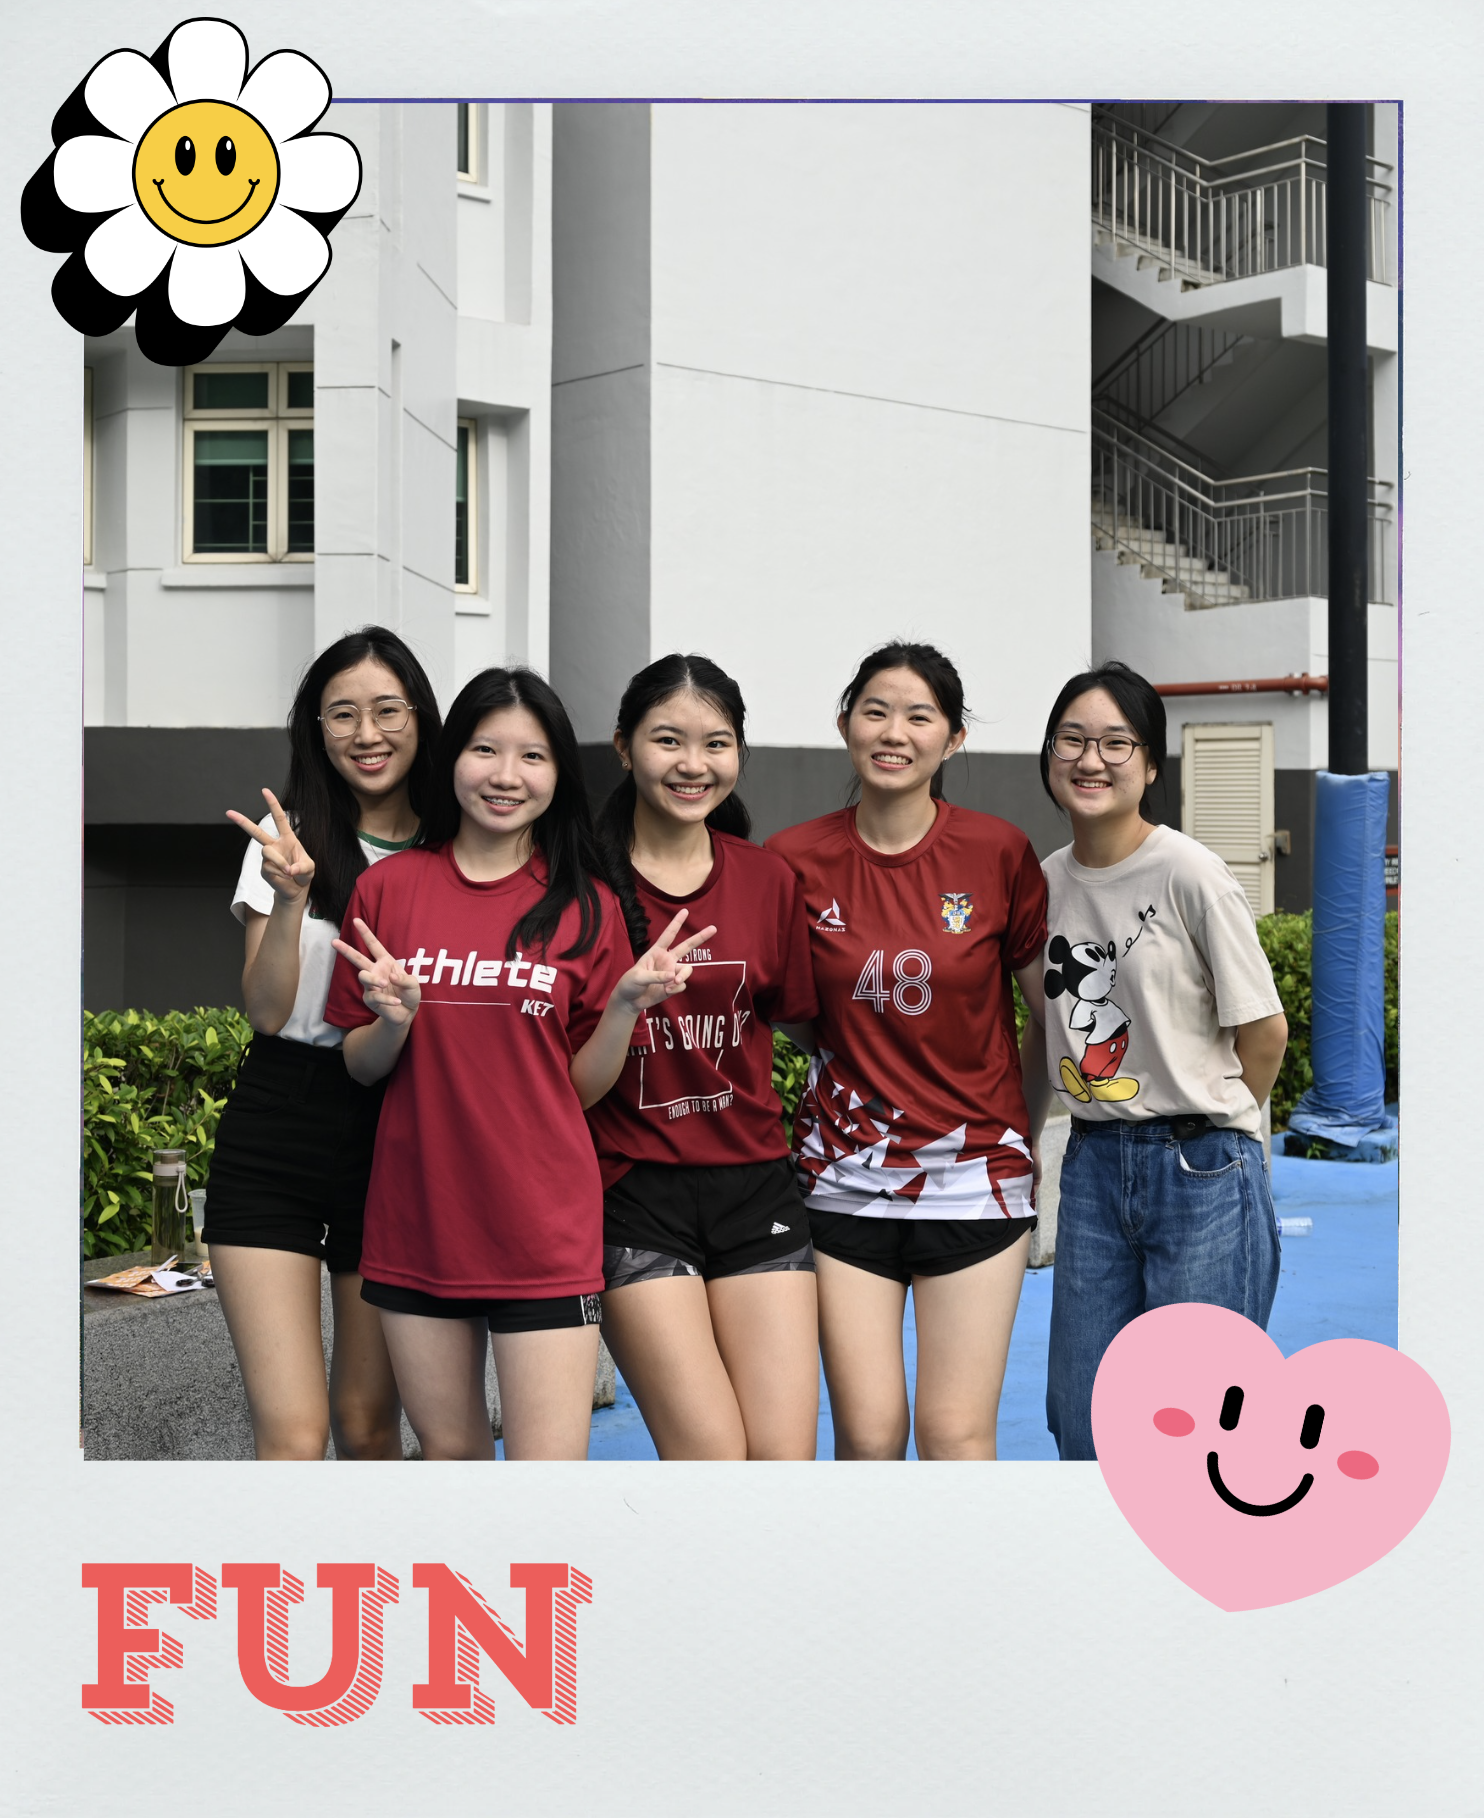
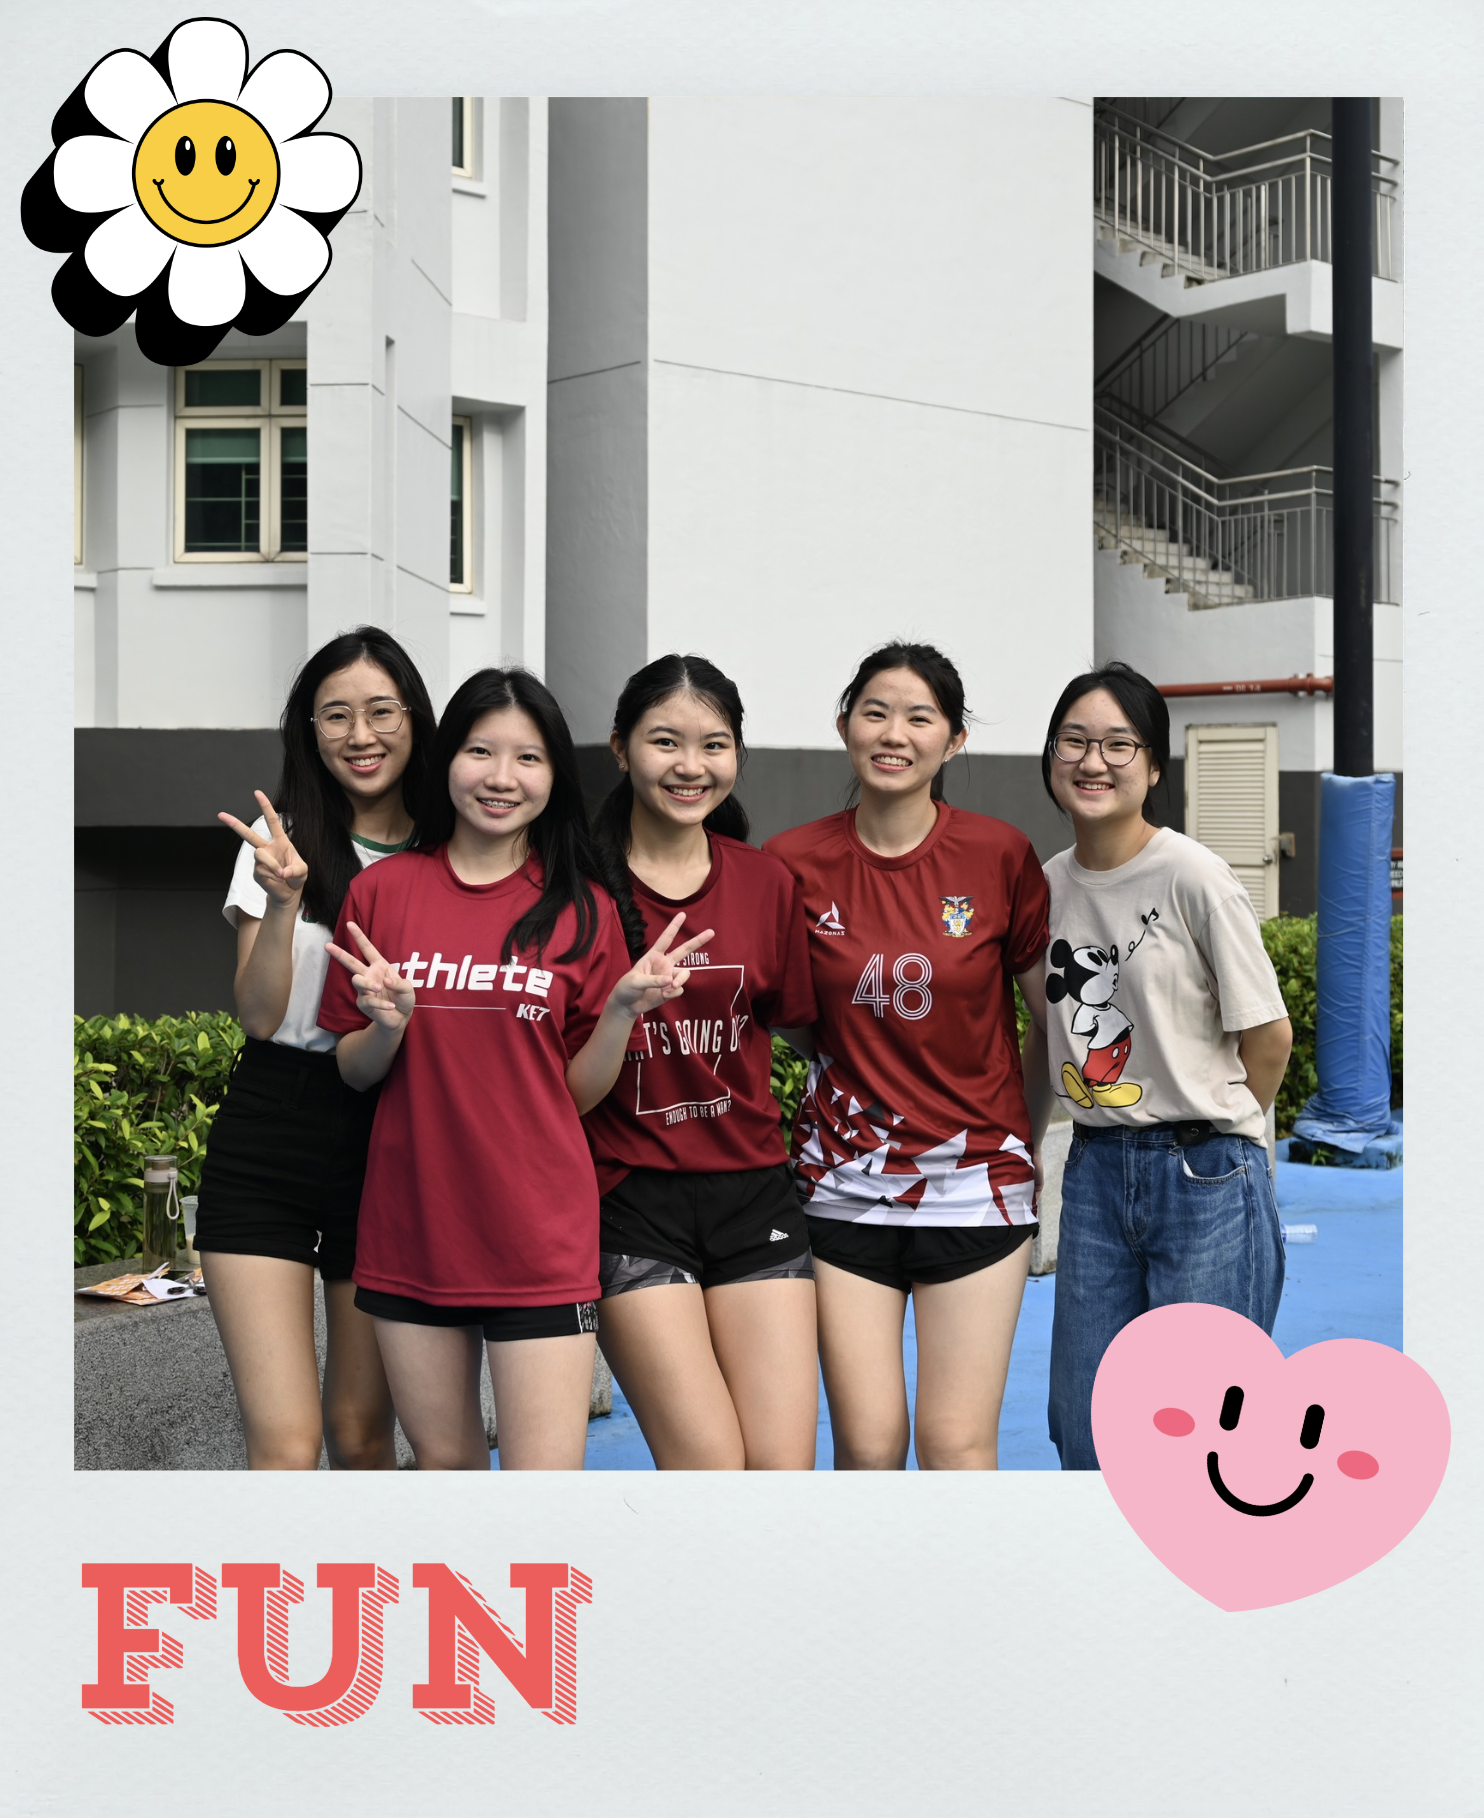
Add Who Are We Section

diff --git a/website_controller/website_frontend/static/css/home/who-are-we.css b/website_controller/website_frontend/static/css/home/who-are-we.css
@@ -2,7 +2,6 @@
 
 #who-are-we-section {
     width: 100%;
-    height: 800px; 
     display: flex;
     align-items: center;
     justify-content: center;
@@ -15,21 +14,32 @@
     justify-content: center;
     flex-wrap: wrap;   
     gap: 100px;
+    padding: 100px 50px;
 }
 
 .who-are-we-image {
-    width: 600px;
+    width: 500px;
     height: auto;
     object-fit: cover;
     border-radius: 30px;
+    transform: rotate(-2.5deg);
+    transition: 1s;
+}
+
+.who-are-we-image:hover {
+    transform: rotate(2.5deg);
+    transition: 1s;
 }
 
 .who-are-we-word-content {
     width: 500px;
+    display: flex;
+    flex-direction: column;
+    gap:20px;
 }
 
 .who-are-we-word-content h1{
-    font-size: 40px;
+    font-size: 60px;
     font-family: "Poppins", sans-serif;
     margin: 0px;
     padding: 0px;
@@ -38,4 +48,23 @@
 .who-are-we-word-content p {
     font-size: 14px;
     font-family: "Poppins", sans-serif;
+}
+
+.learn-more-btn {
+    transition: all 300ms ease;
+    padding: 10px 30px;
+    width: 150px;
+    border-radius: 20px;
+    font-family: "Poppins", sans-serif;
+    font-size: 14px;
+    border: var(--btn-primary-color) 1px solid;
+    background: none;
+}
+
+.learn-more-btn:hover {
+    cursor: pointer;
+    background: var(--btn-primary-color);
+    color: white;
+    border: none;
+    border: white 1px solid;
 }

diff --git a/website_controller/website_frontend/src/components/home/WhoAreWe.js b/website_controller/website_frontend/src/components/home/WhoAreWe.js
@@ -17,6 +17,9 @@ function WhoAreWe() {
                         electronic typesetting, remaining essentially unchanged. It was popularised in 
                         the 1960s with the release of Letraset sheets containing Lorem Ipsum passages, 
                         and more recently with desktop publishing software like Aldus PageMaker including versions of Lorem Ipsum.</p>
+
+                   
+                    <a href="" ><button className="learn-more-btn" onclick="">Learn More</button></a>
                 </div>
             </div>     
         </section>

diff --git a/website_controller/website_frontend/static/css/global.css b/website_controller/website_frontend/static/css/global.css
@@ -1,6 +1,7 @@
 :root {
     --secondary-color-1: #ff5757;
     --secondary-color-2: #dbc7b3;
+    --btn-primary-color: rgb(30, 30, 30);
 }
 
 .fade-in-right-hidden {
